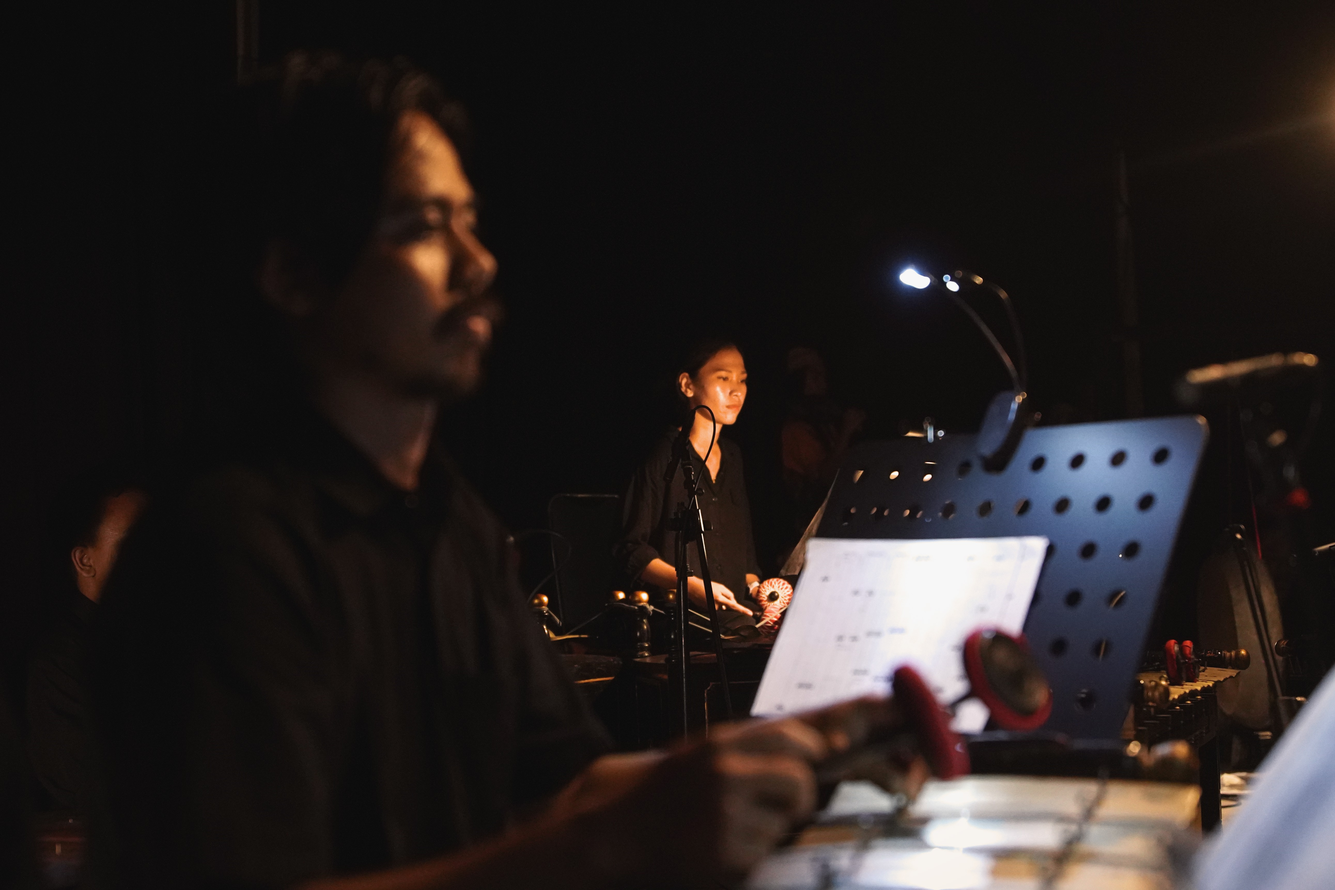
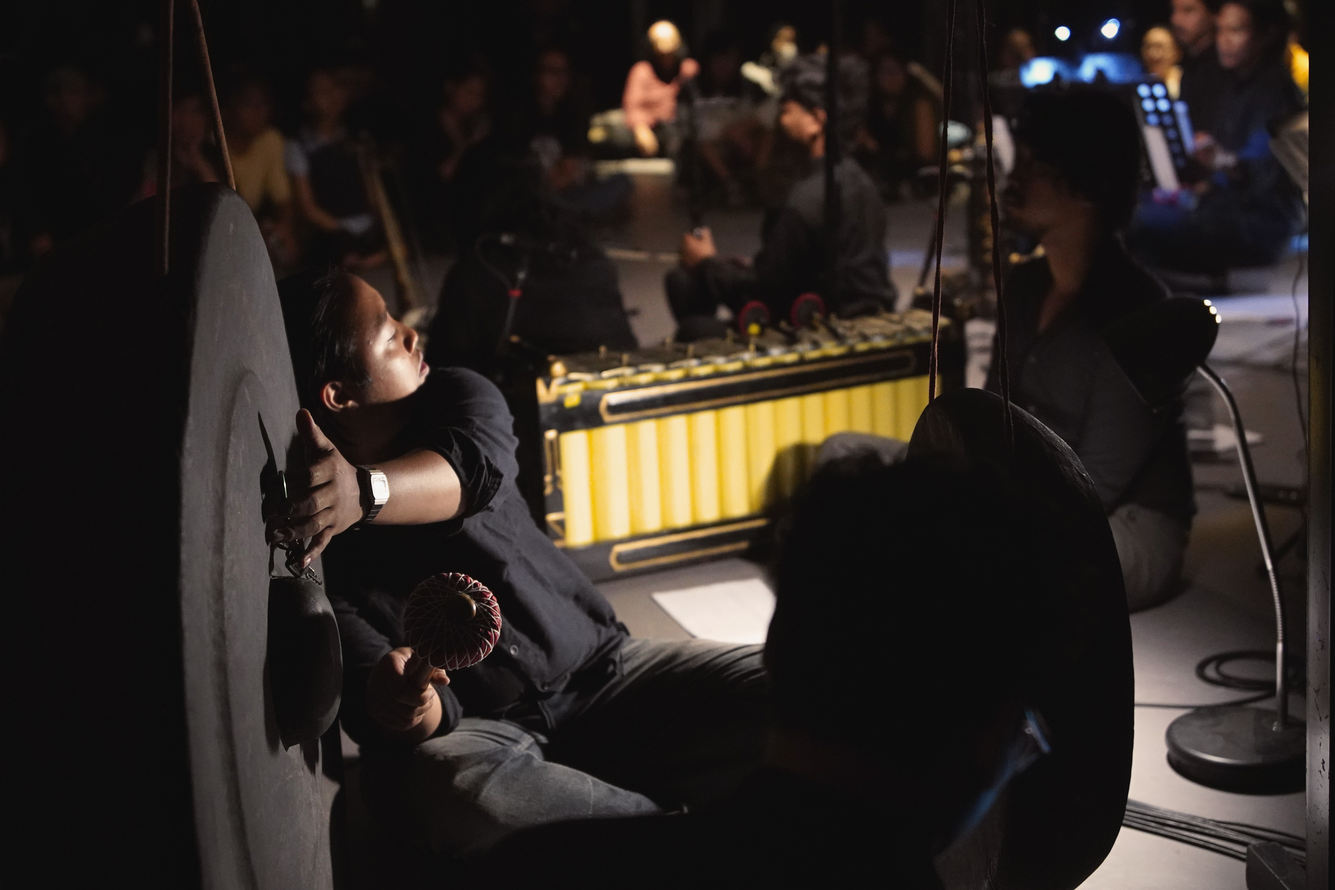
YNK#51: add three more gallery photos

diff --git a/src/content/events/ynk-51.md b/src/content/events/ynk-51.md
@@ -62,6 +62,15 @@ images:
   - src: ../images/ynk51-18.jpg
     alt: YNK#51
     id: ynk51-18
+  - src: ../images/ynk51-19.jpg
+    alt: YNK#51
+    id: ynk51-19
+  - src: ../images/ynk51-20.jpg
+    alt: YNK#51
+    id: ynk51-20
+  - src: ../images/ynk51-21.jpg
+    alt: YNK#51
+    id: ynk51-21
 ---
 
 The premiere concert of [Sandikala Ensemble](https://www.instagram.com/sandikalaensemble/)—an expanded gamelan unit exploring experimental techniques, new instrument-making, and unfamiliar possibilities within contemporary gamelan practice.
